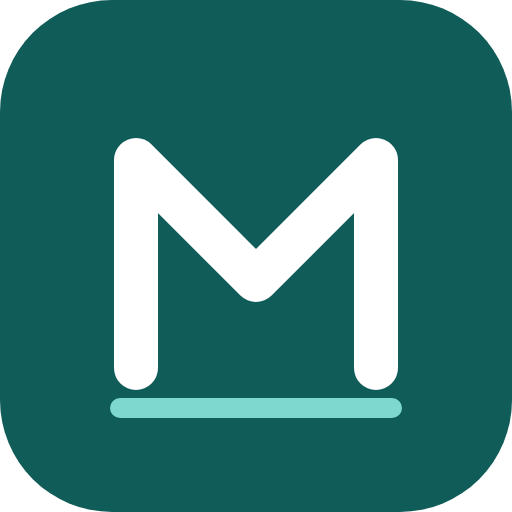
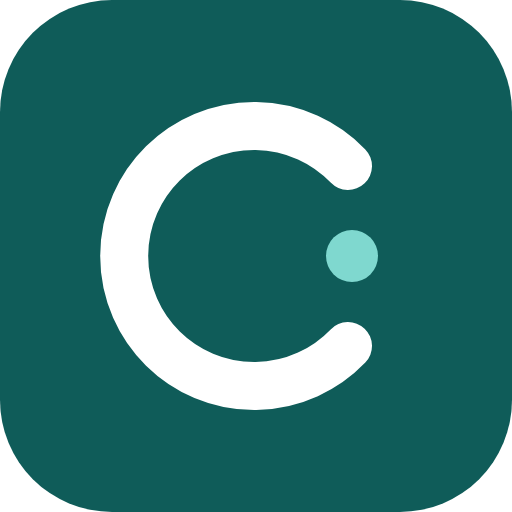
Nuevo nombre visible: Clara (igual en español e inglés)
- Interfaz (es/en), título, manifiesto de la PWA, marca «C» e íconos nuevos
  (SVG y PNG regenerados desde el SVG), nombres de archivos de copia
  (clara-copia-…), documentación y pruebas.
- Sin cambios de compatibilidad: las claves internas conservan el nombre
  anterior (margen.data.v1, formato margen-backup, cachés margen-), así que los
  datos guardados y las copias exportadas antes siguen funcionando. El campo
  «app» de las copias ya no se exige.

Claude-Session: https://claude.ai/code/session_01CckWQuTRMbicRHaBv4Jxx2

Changed region(s): [[0.1875, 0.1875, 0.7812, 0.8438]]

diff --git a/src/i18n/es.ts b/src/i18n/es.ts
@@ -41,7 +41,7 @@ export const es = {
   'shell.corruptDownload': 'Descargar datos dañados',
   'shell.corruptReset': 'Empezar de nuevo',
   'shell.notFound': 'Esta página no existe',
-  'shell.updateText': 'Hay una versión nueva de Margen. Al actualizar se recarga la app: termina antes lo que estés escribiendo. Tus datos guardados no cambian.',
+  'shell.updateText': 'Hay una versión nueva de Clara. Al actualizar se recarga la app: termina antes lo que estés escribiendo. Tus datos guardados no cambian.',
   'shell.updateAction': 'Actualizar ahora',
 
   // Guardado
@@ -163,7 +163,7 @@ export const es = {
   'home.freshnessText': 'Saldo registrado: {when}',
   'home.freshnessAge_one': 'hace {count} día',
   'home.freshnessAge_other': 'hace {count} días',
-  'home.freshnessNote': 'Margen no se conecta a tu banco: los cálculos dependen del saldo que escribes y de los movimientos que registras.',
+  'home.freshnessNote': 'Clara no se conecta a tu banco: los cálculos dependen del saldo que escribes y de los movimientos que registras.',
   'home.remindersTitle': 'Recordatorios',
   'home.remindersNote': 'Los recordatorios se muestran solo dentro de la app. Todavía no enviamos notificaciones al teléfono.',
   'home.upcomingTitle': 'Próximos pagos e ingresos',
@@ -594,11 +594,11 @@ export const es = {
   'settings.demo.resetText': 'Se perderán los cambios que hiciste en la demo y se cargarán datos ficticios nuevos con fechas de hoy.',
   'settings.demo.resetDone': 'Demostración reiniciada',
   'settings.about.title': 'Acerca de',
-  'settings.about.text': 'Margen {version} · prototipo local de uso personal. Sin servidor, sin cuentas de usuario, sin conexión bancaria y sin IA. No es asesoría financiera.',
+  'settings.about.text': 'Clara {version} · prototipo local de uso personal. Sin servidor, sin cuentas de usuario, sin conexión bancaria y sin IA. No es asesoría financiera.',
 
   // Configuración inicial
   'setup.progress': 'Paso {step} de {total}',
-  'setup.welcome.title': 'Hola, esto es Margen',
+  'setup.welcome.title': 'Hola, esto es Clara',
   'setup.welcome.lead': 'Te ayuda a responder, con tus propios números:',
   'setup.welcome.q1': '¿Cuánto puedo gastar después de reservar mis pagos y ahorros?',
   'setup.welcome.q2': '¿Cómo afecta una compra a mi presupuesto?',
@@ -659,7 +659,7 @@ export const es = {
   'setup.summary.title': 'Resumen',
   'setup.summary.note': 'Puedes cambiar todo esto después. Los cálculos se actualizan al registrar movimientos o actualizar tu saldo.',
   'setup.summary.incomePast': 'La fecha del ingreso ya pasó: no lo contaremos hasta que lo marques como recibido.',
-  'setup.summary.finish': 'Empezar a usar Margen',
+  'setup.summary.finish': 'Empezar a usar Clara',
 
   // Problemas de validación
   'issue.required': 'Este dato es obligatorio.',
@@ -690,8 +690,8 @@ export const es = {
   'issue.lastBudgetAccount': 'Debe quedar al menos una cuenta que cuente para el presupuesto.',
   'issue.notFound': 'No se encontró el registro.',
   'issue.invalidJson': 'El archivo no es JSON válido.',
-  'issue.notABackup': 'El archivo no es una copia de seguridad de Margen.',
-  'issue.schemaTooNew': 'La copia es de una versión más nueva de Margen ({version}).',
+  'issue.notABackup': 'El archivo no es una copia de seguridad de Clara.',
+  'issue.schemaTooNew': 'La copia es de una versión más nueva de Clara ({version}).',
   'issue.tooLarge': 'El archivo es demasiado grande (máximo 5 MB).',
   'issue.tooManyRecords': 'La copia tiene demasiados registros (máximo {max}).',
   'issue.noAccounts': 'La copia no tiene ninguna cuenta.',
@@ -803,7 +803,7 @@ export const es = {
   'bankImport.error.notCsv': 'No se encontraron columnas en el archivo.',
   'bankImport.error.help': 'Asegúrate de elegir un archivo CSV (texto separado por comas o punto y coma), no un PDF ni una hoja de Excel.',
   'bankImport.step2': '2. Indica qué es cada columna',
-  'bankImport.mapIntro': 'Margen intentó reconocer las columnas. Revisa que la fecha, la descripción y el importe sean correctos.',
+  'bankImport.mapIntro': 'Clara intentó reconocer las columnas. Revisa que la fecha, la descripción y el importe sean correctos.',
   'bankImport.hasHeader': 'La primera fila tiene los nombres de las columnas',
   'bankImport.column': 'Columna {n}',
   'bankImport.columnNamed': 'Columna {n}: {name}',
@@ -1559,20 +1559,20 @@ export const es = {
   'save.error.conflict': 'Cambios de otra pestaña: no se guardó',
   'save.error.notSaved': 'No se pudo guardar',
   'save.problem.title': 'Tus últimos cambios no se guardaron.',
-  'save.problem.quota': 'El navegador no tiene espacio. Lo guardado antes sigue intacto, pero lo que ves ahora se perderá si cierras o recargas. Descarga una copia, libera espacio (por ejemplo, vacía la papelera de Margen o borra datos de otros sitios) y vuelve a intentarlo.',
+  'save.problem.quota': 'El navegador no tiene espacio. Lo guardado antes sigue intacto, pero lo que ves ahora se perderá si cierras o recargas. Descarga una copia, libera espacio (por ejemplo, vacía la papelera de Clara o borra datos de otros sitios) y vuelve a intentarlo.',
   'save.problem.unavailable': 'El navegador no permite guardar (puede ser una ventana privada o un permiso bloqueado). Lo guardado antes sigue intacto, pero lo que ves ahora se perderá al cerrar. Descarga una copia para no perderlo.',
-  'save.problem.conflict': 'Otra pestaña (u otra versión de Margen) guardó cambios después de que abrieras esta. Para no borrarlos, aquí no se guardó nada. Si necesitas lo que hiciste en esta pestaña, descarga una copia antes de cargar lo guardado.',
+  'save.problem.conflict': 'Otra pestaña (u otra versión de Clara) guardó cambios después de que abrieras esta. Para no borrarlos, aquí no se guardó nada. Si necesitas lo que hiciste en esta pestaña, descarga una copia antes de cargar lo guardado.',
   'save.problem.unknown': 'El navegador no confirmó el guardado. Lo guardado antes sigue intacto, pero lo que ves ahora se perderá si cierras o recargas.',
   'save.problem.download': 'Descargar copia de lo que ves',
   'save.problem.retry': 'Volver a intentar',
   'save.problem.loadSaved': 'Cargar lo guardado (descarta lo de esta pestaña)',
-  'shell.newerTitle': 'Estos datos son de una versión más nueva de Margen',
+  'shell.newerTitle': 'Estos datos son de una versión más nueva de Clara',
   'shell.newerText': 'Se guardaron con una versión de la app más reciente que la que tienes abierta (por ejemplo, en otra pestaña ya actualizada). No se modificaron. Recarga para usar la versión nueva.',
   'shell.newerReload': 'Recargar la app',
   'shell.corruptConfirmTitle': '¿Empezar de nuevo?',
   'shell.corruptConfirmText': 'La app quedará vacía. Si aún no descargaste los datos, hazlo antes: se guardará una copia interna en este navegador solo si hay espacio.',
-  'shell.updateBlocked': 'Hay una versión nueva de Margen, pero antes de actualizar hay que resolver los cambios que no se guardaron.',
-  'shell.updateOtherTab': 'Se activó una versión nueva de Margen en otra pestaña. Esta sigue con la anterior: recarga cuando termines lo que estás haciendo.',
+  'shell.updateBlocked': 'Hay una versión nueva de Clara, pero antes de actualizar hay que resolver los cambios que no se guardaron.',
+  'shell.updateOtherTab': 'Se activó una versión nueva de Clara en otra pestaña. Esta sigue con la anterior: recarga cuando termines lo que estás haciendo.',
   'shell.updateReload': 'Recargar',
   'shell.screenFailed': 'No se pudo abrir esta pantalla',
   'shell.screenFailedText': 'Puede que la app se haya actualizado en otra pestaña o que no haya conexión. Tus datos no cambiaron. Recarga para continuar.',
@@ -1595,6 +1595,6 @@ export const es = {
   'explain.glossary.reserved': 'Pagos reservados: pagos programados hasta el día de tu próximo ingreso (incluido). Aún no salieron de tu cuenta, pero ya están comprometidos.',
   'explain.glossary.goals': 'Apartados: dinero que decidiste no gastar (metas). Sigue en tu cuenta; solo deja de contar como disponible.',
   'explain.glossary.card': 'Tarjetas de crédito: si una tarjeta cuenta para el presupuesto, su deuda se resta. El crédito disponible de una tarjeta nunca es dinero tuyo y no se suma.',
-  'shell.updateAfterForm': 'Hay una versión nueva de Margen. Para no perder lo que estás escribiendo, termina o cancela este formulario y podrás actualizar.',
+  'shell.updateAfterForm': 'Hay una versión nueva de Clara. Para no perder lo que estás escribiendo, termina o cancela este formulario y podrás actualizar.',
   'distribution.newGoal': 'Crear una meta',
 } as const

diff --git a/src/i18n/en.ts b/src/i18n/en.ts
@@ -42,7 +42,7 @@ export const en: Record<keyof typeof es, string> = {
   'shell.corruptDownload': 'Download damaged data',
   'shell.corruptReset': 'Start over',
   'shell.notFound': 'This page doesn’t exist',
-  'shell.updateText': 'A new version of Margen is ready. Updating reloads the app: finish what you are typing first. Your saved data won’t change.',
+  'shell.updateText': 'A new version of Clara is ready. Updating reloads the app: finish what you are typing first. Your saved data won’t change.',
   'shell.updateAction': 'Update now',
 
   // Saving
@@ -164,7 +164,7 @@ export const en: Record<keyof typeof es, string> = {
   'home.freshnessText': 'Balance recorded: {when}',
   'home.freshnessAge_one': '{count} day ago',
   'home.freshnessAge_other': '{count} days ago',
-  'home.freshnessNote': 'Margen doesn’t connect to your bank: calculations depend on the balance you enter and the transactions you record.',
+  'home.freshnessNote': 'Clara doesn’t connect to your bank: calculations depend on the balance you enter and the transactions you record.',
   'home.remindersTitle': 'Reminders',
   'home.remindersNote': 'Reminders are shown only inside the app. We don’t send phone notifications yet.',
   'home.upcomingTitle': 'Upcoming bills and income',
@@ -595,11 +595,11 @@ export const en: Record<keyof typeof es, string> = {
   'settings.demo.resetText': 'The changes you made in the demo will be lost and new fictitious data with today’s dates will be loaded.',
   'settings.demo.resetDone': 'Demo reset',
   'settings.about.title': 'About',
-  'settings.about.text': 'Margen {version} · local prototype for personal use. No server, no user accounts, no bank connection and no AI. Not financial advice.',
+  'settings.about.text': 'Clara {version} · local prototype for personal use. No server, no user accounts, no bank connection and no AI. Not financial advice.',
 
   // Setup
   'setup.progress': 'Step {step} of {total}',
-  'setup.welcome.title': 'Hi, this is Margen',
+  'setup.welcome.title': 'Hi, this is Clara',
   'setup.welcome.lead': 'It helps you answer, with your own numbers:',
   'setup.welcome.q1': 'How much can I spend after reserving my bills and savings?',
   'setup.welcome.q2': 'How does a purchase affect my budget?',
@@ -660,7 +660,7 @@ export const en: Record<keyof typeof es, string> = {
   'setup.summary.title': 'Summary',
   'setup.summary.note': 'You can change all of this later. Calculations update when you record transactions or update your balance.',
   'setup.summary.incomePast': 'The income date has passed: we won’t count it until you mark it as received.',
-  'setup.summary.finish': 'Start using Margen',
+  'setup.summary.finish': 'Start using Clara',
 
   // Validation issues
   'issue.required': 'This field is required.',
@@ -691,8 +691,8 @@ export const en: Record<keyof typeof es, string> = {
   'issue.lastBudgetAccount': 'At least one account must count for the budget.',
   'issue.notFound': 'Record not found.',
   'issue.invalidJson': 'The file isn’t valid JSON.',
-  'issue.notABackup': 'The file isn’t a Margen backup.',
-  'issue.schemaTooNew': 'The backup is from a newer version of Margen ({version}).',
+  'issue.notABackup': 'The file isn’t a Clara backup.',
+  'issue.schemaTooNew': 'The backup is from a newer version of Clara ({version}).',
   'issue.tooLarge': 'The file is too large (5 MB maximum).',
   'issue.tooManyRecords': 'The backup has too many records (maximum {max}).',
   'issue.noAccounts': 'The backup has no accounts.',
@@ -804,7 +804,7 @@ export const en: Record<keyof typeof es, string> = {
   'bankImport.error.notCsv': 'No columns were found in the file.',
   'bankImport.error.help': 'Make sure you choose a CSV file (text separated by commas or semicolons), not a PDF or an Excel sheet.',
   'bankImport.step2': '2. Tell us what each column is',
-  'bankImport.mapIntro': 'Margen tried to recognize the columns. Check that the date, description and amount are right.',
+  'bankImport.mapIntro': 'Clara tried to recognize the columns. Check that the date, description and amount are right.',
   'bankImport.hasHeader': 'The first row has the column names',
   'bankImport.column': 'Column {n}',
   'bankImport.columnNamed': 'Column {n}: {name}',
@@ -1560,20 +1560,20 @@ export const en: Record<keyof typeof es, string> = {
   'save.error.conflict': 'Changed in another tab: not saved',
   'save.error.notSaved': 'Could not save',
   'save.problem.title': 'Your latest changes were not saved.',
-  'save.problem.quota': 'The browser is out of space. What was saved before is intact, but what you see now will be lost if you close or reload. Download a copy, free up space (for example, empty Margen\'s trash or clear other sites\' data) and try again.',
+  'save.problem.quota': 'The browser is out of space. What was saved before is intact, but what you see now will be lost if you close or reload. Download a copy, free up space (for example, empty Clara\'s trash or clear other sites\' data) and try again.',
   'save.problem.unavailable': 'The browser does not allow saving (it may be a private window or a blocked permission). What was saved before is intact, but what you see now will be lost when you close. Download a copy so you do not lose it.',
-  'save.problem.conflict': 'Another tab (or another version of Margen) saved changes after you opened this one. To avoid erasing them, nothing was saved here. If you need what you did in this tab, download a copy before loading the saved data.',
+  'save.problem.conflict': 'Another tab (or another version of Clara) saved changes after you opened this one. To avoid erasing them, nothing was saved here. If you need what you did in this tab, download a copy before loading the saved data.',
   'save.problem.unknown': 'The browser did not confirm the save. What was saved before is intact, but what you see now will be lost if you close or reload.',
   'save.problem.download': 'Download a copy of what you see',
   'save.problem.retry': 'Try again',
   'save.problem.loadSaved': 'Load the saved data (discards this tab\'s changes)',
-  'shell.newerTitle': 'This data is from a newer version of Margen',
+  'shell.newerTitle': 'This data is from a newer version of Clara',
   'shell.newerText': 'It was saved by a newer version of the app than the one open here (for example, in another tab that already updated). Nothing was changed. Reload to use the new version.',
   'shell.newerReload': 'Reload the app',
   'shell.corruptConfirmTitle': 'Start over?',
   'shell.corruptConfirmText': 'The app will be empty. If you have not downloaded the data yet, do it first: an internal copy is kept in this browser only if there is space.',
-  'shell.updateBlocked': 'A new version of Margen is ready, but first resolve the changes that were not saved.',
-  'shell.updateOtherTab': 'A new version of Margen was activated in another tab. This one keeps the previous version: reload when you finish what you are doing.',
+  'shell.updateBlocked': 'A new version of Clara is ready, but first resolve the changes that were not saved.',
+  'shell.updateOtherTab': 'A new version of Clara was activated in another tab. This one keeps the previous version: reload when you finish what you are doing.',
   'shell.updateReload': 'Reload',
   'shell.screenFailed': 'This screen could not be opened',
   'shell.screenFailedText': 'The app may have been updated in another tab, or there is no connection. Your data did not change. Reload to continue.',
@@ -1596,6 +1596,6 @@ export const en: Record<keyof typeof es, string> = {
   'explain.glossary.reserved': 'Reserved payments: scheduled payments up to the day of your next income (included). They have not left your account yet, but they are already committed.',
   'explain.glossary.goals': 'Set aside: money you decided not to spend (goals). It is still in your account; it just no longer counts as available.',
   'explain.glossary.card': 'Credit cards: if a card counts for the budget, its debt is subtracted. A card\'s available credit is never your money and is never added.',
-  'shell.updateAfterForm': 'A new version of Margen is ready. So you do not lose what you are typing, finish or cancel this form and you can update.',
+  'shell.updateAfterForm': 'A new version of Clara is ready. So you do not lose what you are typing, finish or cancel this form and you can update.',
   'distribution.newGoal': 'Create a goal',
 }

diff --git a/tests/e2e/setup.spec.ts b/tests/e2e/setup.spec.ts
@@ -3,7 +3,7 @@ import { openApp } from './helpers'
 
 test('configuración inicial con mis datos y recuperación tras recargar', async ({ page }) => {
   await openApp(page)
-  await expect(page.getByRole('heading', { name: 'Hola, esto es Margen' })).toBeVisible()
+  await expect(page.getByRole('heading', { name: 'Hola, esto es Clara' })).toBeVisible()
   await page.getByRole('button', { name: 'Configurar con mis datos' }).click()
 
   // Paso 1: sin saldo muestra un error claro.
@@ -31,7 +31,7 @@ test('configuración inicial con mis datos y recuperación tras recargar', async
   // 1200 − 600 − 200 = 400
   await expect(page.getByRole('heading', { name: 'Resumen' })).toBeVisible()
   await expect(page.locator('.hero__value')).toHaveText('$400.00')
-  await page.getByRole('button', { name: 'Empezar a usar Margen' }).click()
+  await page.getByRole('button', { name: 'Empezar a usar Clara' }).click()
 
   await expect(page.getByTestId('available')).toHaveText('$400.00')
   await expect(page.locator('.hero__sub')).toContainText('11 días')
@@ -52,7 +52,7 @@ test('sin fecha de ingreso pide un horizonte y no divide entre cero', async ({ p
   await page.getByRole('button', { name: 'Continuar' }).click()
   await page.getByRole('button', { name: 'Continuar' }).click()
   await page.getByRole('button', { name: 'Ver resumen' }).click()
-  await page.getByRole('button', { name: 'Empezar a usar Margen' }).click()
+  await page.getByRole('button', { name: 'Empezar a usar Clara' }).click()
   // Saldo negativo aceptado; horizonte de 14 días elegido por defecto.
   await expect(page.getByTestId('available')).toHaveText('-$25.50')
   await expect(page.getByText('Te faltan $25.50 para cubrir pagos y apartados')).toBeVisible()
@@ -73,7 +73,7 @@ test('camino corto: saldo + próximo ingreso → resultado provisional sin pasos
   await expect(page.locator('.hero__value')).toHaveText('$500.00') // el ingreso futuro no se suma
   await expect(page.getByText('Cálculo provisional')).toBeVisible()
   await expect(page.getByText(/No agregaste pagos próximos/)).toBeVisible()
-  await page.getByRole('button', { name: 'Empezar a usar Margen' }).click()
+  await page.getByRole('button', { name: 'Empezar a usar Clara' }).click()
   await expect(page.getByTestId('available')).toHaveText('$500.00')
   await expect(page.getByText('Modo demostración')).toHaveCount(0)
 })

diff --git a/tests/e2e/pwa-update.spec.ts b/tests/e2e/pwa-update.spec.ts
@@ -77,7 +77,7 @@ test('versión nueva: se ofrece sin forzar, no interrumpe un formulario de otra 
 
   // Inicio ofrece actualizar; la pestaña del formulario solo avisa (sin botón).
   const homeBanner = home.getByTestId('update-banner')
-  await expect(homeBanner).toContainText('Hay una versión nueva de Margen')
+  await expect(homeBanner).toContainText('Hay una versión nueva de Clara')
   const formBanner = form.getByTestId('update-banner')
   await expect(formBanner).toContainText('termina o cancela este formulario')
   await expect(formBanner.getByRole('button')).toHaveCount(0)
@@ -97,7 +97,7 @@ test('versión nueva: se ofrece sin forzar, no interrumpe un formulario de otra 
 
   // La otra pestaña sigue con su formulario intacto y un aviso para recargar después.
   expect(await marked(form)).toBe(true)
-  await expect(formBanner).toContainText('Se activó una versión nueva de Margen en otra pestaña')
+  await expect(formBanner).toContainText('Se activó una versión nueva de Clara en otra pestaña')
   await expect(form.getByLabel('Importe', { exact: true })).toHaveValue('12.34')
   await form.getByRole('button', { name: 'Guardar', exact: true }).click()
   // Fuera del formulario ya se puede recargar; lo guardado sigue ahí.
@@ -118,6 +118,6 @@ test('versión nueva descubierta al recargar (sin pedir nada): se ofrece igual',
   version = 'B'
   // Al navegar, el navegador compara sw.js y empieza a instalar la versión B en segundo plano.
   await page.reload()
-  await expect(page.getByTestId('update-banner')).toContainText('Hay una versión nueva de Margen', { timeout: 15_000 })
+  await expect(page.getByTestId('update-banner')).toContainText('Hay una versión nueva de Clara', { timeout: 15_000 })
   await expect(page.getByTestId('update-banner').getByRole('button', { name: 'Actualizar ahora' })).toBeVisible()
 })

diff --git a/src/App.tsx b/src/App.tsx
@@ -113,13 +113,13 @@ function Loading() {
 /**
  * Los datos guardados no se pueden leer. Nunca se reemplazan sin preguntar: primero se
  * ofrece descargarlos y empezar de nuevo pide confirmación (y guarda una copia interna).
- * Si los guardó una versión más nueva de Margen, lo que hace falta es actualizar la app.
+ * Si los guardó una versión más nueva de Clara, lo que hace falta es actualizar la app.
  */
 function Corrupt({ raw, newerVersion }: { raw: string; newerVersion: boolean }) {
   const { t } = useT()
   const { update } = usePwaState()
   const [confirming, setConfirming] = useState(false)
-  const downloadRaw = () => downloadText(newerVersion ? 'margen-datos-version-nueva.json' : 'margen-datos-danados.json', raw)
+  const downloadRaw = () => downloadText(newerVersion ? 'clara-datos-version-nueva.json' : 'clara-datos-danados.json', raw)
   return (
     <main className="center-screen" id="main">
       <div className="card setup__card">
@@ -357,9 +357,9 @@ function Shell() {
       <header className="topbar">
         <a className="brand" href={href('/')}>
           <span className="brand__mark" aria-hidden="true">
-            M
+            C
           </span>
-          <span className="brand__name">Margen</span>
+          <span className="brand__name">Clara</span>
         </a>
         <span className="badge badge--neutral topbar__proto">{t('shell.prototype')}</span>
         <SaveIndicator save={state.save} />

diff --git a/src/storage/backup.ts b/src/storage/backup.ts
@@ -52,6 +52,8 @@ import {
 } from '../domain/validation'
 import { migrate } from './migrations'
 
+// Identificador interno del formato (la app se llamaba «Margen»): no cambia, para que las
+// copias anteriores sigan siendo válidas.
 export const BACKUP_FORMAT = 'margen-backup'
 export const BACKUP_FORMAT_VERSION = 1
 export const MAX_BACKUP_BYTES = 5 * 1024 * 1024
@@ -61,7 +63,8 @@ export interface BackupFile {
   format: typeof BACKUP_FORMAT
   formatVersion: number
   exportedAt: string
-  app: 'Margen'
+  /** Nombre de la app que generó el archivo («Margen» en copias anteriores). No se valida. */
+  app: string
   appVersion: string
   data: AppData
 }
@@ -77,7 +80,7 @@ export function createBackup(data: AppData, now: Date, appVersion: string): Back
     format: BACKUP_FORMAT,
     formatVersion: BACKUP_FORMAT_VERSION,
     exportedAt: now.toISOString(),
-    app: 'Margen',
+    app: 'Clara',
     appVersion,
     data,
   }
@@ -105,7 +108,7 @@ export function performExport(
 
 export function backupFileName(now: Date, isDemo: boolean): string {
   const stamp = now.toISOString().slice(0, 16).replace(/[:T]/g, '-')
-  return `margen-${isDemo ? 'demo-' : ''}copia-${stamp}.json`
+  return `clara-${isDemo ? 'demo-' : ''}copia-${stamp}.json`
 }
 
 type Obj = Record<string, unknown>

diff --git a/tests/e2e/data-safety.spec.ts b/tests/e2e/data-safety.spec.ts
@@ -42,7 +42,7 @@ test('almacenamiento lleno: nunca dice «Guardado», conserva lo guardado y perm
   // Descargar una copia de lo que se ve (incluye el cambio no guardado).
   const download = page.waitForEvent('download')
   await banner.getByRole('button', { name: 'Descargar copia de lo que ves' }).click()
-  expect((await download).suggestedFilename()).toMatch(/^margen-demo-copia-.*\.json$/)
+  expect((await download).suggestedFilename()).toMatch(/^clara-demo-copia-.*\.json$/)
   // Al liberar espacio, reintentar guarda todo.
   await restoreWrites(page)
   await banner.getByRole('button', { name: 'Volver a intentar' }).click()
@@ -103,7 +103,7 @@ test('datos de una versión más nueva: se explican, no se tocan y empezar de nu
     return text
   }, KEY)
   await page.reload()
-  await expect(page.getByRole('alert')).toContainText('Estos datos son de una versión más nueva de Margen')
+  await expect(page.getByRole('alert')).toContainText('Estos datos son de una versión más nueva de Clara')
   expect(await stored(page)).toBe(future)
   await page.getByRole('button', { name: 'Empezar de nuevo' }).click()
   const dialog = page.getByRole('dialog', { name: '¿Empezar de nuevo?' })

diff --git a/index.html b/index.html
@@ -3,18 +3,18 @@
   <head>
     <meta charset="UTF-8" />
     <meta name="viewport" content="width=device-width, initial-scale=1.0, viewport-fit=cover" />
-    <meta name="description" content="Margen: prototipo local para saber cuánto puedes gastar después de reservar pagos y ahorros." />
+    <meta name="description" content="Clara: prototipo local para saber cuánto puedes gastar después de reservar pagos y ahorros." />
     <meta name="theme-color" content="#0f4c4a" media="(prefers-color-scheme: light)" />
     <meta name="theme-color" content="#101416" media="(prefers-color-scheme: dark)" />
     <meta name="color-scheme" content="light dark" />
     <link rel="icon" type="image/svg+xml" href="/icon.svg" />
     <link rel="apple-touch-icon" href="/icon-192.png" />
     <link rel="manifest" href="/manifest.webmanifest" />
-    <title>Margen · prototipo local</title>
+    <title>Clara · prototipo local</title>
   </head>
   <body>
     <div id="root"></div>
-    <noscript>Margen necesita JavaScript para funcionar.</noscript>
+    <noscript>Clara necesita JavaScript para funcionar.</noscript>
     <script type="module" src="/src/main.tsx"></script>
   </body>
 </html>

diff --git a/pwa/sw.template.js b/pwa/sw.template.js
@@ -1,11 +1,12 @@
 /*
- * Service worker de Margen (generado en cada `npm run build`).
+ * Service worker de Clara (generado en cada `npm run build`).
  * - Guarda en caché la app completa de ESTA versión para usarla sin conexión.
  * - Sirve siempre desde la caché de su versión (coherencia entre HTML y archivos).
  * - Una versión nueva se instala en segundo plano y la app muestra «Actualizar».
  * - Nunca guarda datos financieros: esos viven en localStorage.
  */
 const VERSION = '__VERSION__'
+// Prefijo con el nombre anterior («Margen») para limpiar también las cachés ya instaladas.
 const CACHE = `margen-${VERSION}`
 const PRECACHE = __PRECACHE__
 

diff --git a/tests/e2e/demo-and-home.spec.ts b/tests/e2e/demo-and-home.spec.ts
@@ -29,7 +29,7 @@ test('reiniciar y salir de la demostración piden confirmación', async ({ page 
 
   await page.getByRole('main').getByRole('button', { name: 'Empezar con mis datos' }).click()
   await page.getByRole('dialog', { name: '¿Salir de la demostración?' }).getByRole('button', { name: 'Empezar con mis datos' }).click()
-  await expect(page.getByRole('heading', { name: 'Hola, esto es Margen' })).toBeVisible()
+  await expect(page.getByRole('heading', { name: 'Hola, esto es Clara' })).toBeVisible()
 })
 
 test('el cambio de día (y de mes) actualiza el periodo sin recargar', async ({ page }) => {

diff --git a/tests/e2e/backup.spec.ts b/tests/e2e/backup.spec.ts
@@ -7,7 +7,7 @@ test('exportar, rechazar copias inválidas sin tocar datos e importar una válid
   await go(page, '/ajustes')
 
   const [download] = await Promise.all([page.waitForEvent('download'), page.getByRole('button', { name: 'Exportar copia' }).click()])
-  expect(download.suggestedFilename()).toMatch(/^margen-demo-copia-.*\.json$/)
+  expect(download.suggestedFilename()).toMatch(/^clara-demo-copia-.*\.json$/)
   const backup = JSON.parse(readFileSync((await download.path())!, 'utf8'))
   expect(backup.format).toBe('margen-backup')
   expect(backup.data.transactions.length).toBeGreaterThan(20)

diff --git a/tests/e2e/english.spec.ts b/tests/e2e/english.spec.ts
@@ -5,7 +5,7 @@ import { go, openApp } from './helpers'
 test('la app funciona en inglés y se puede volver a español', async ({ page }) => {
   await openApp(page)
   await page.getByRole('radio', { name: 'English' }).check()
-  await expect(page.getByRole('heading', { name: 'Hi, this is Margen' })).toBeVisible()
+  await expect(page.getByRole('heading', { name: 'Hi, this is Clara' })).toBeVisible()
   await expect(page.locator('html')).toHaveAttribute('lang', 'en')
   await page.getByRole('button', { name: 'Explore with demo data' }).click()
 
